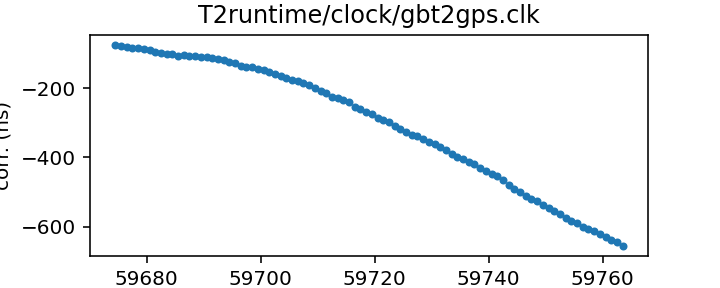
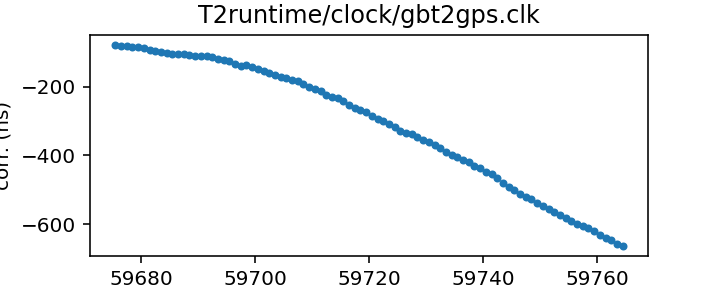
Routine gh-pages update from Github action Tue Jul  5 20:35:05 UTC 2022

diff --git a/status.md b/status.md
@@ -13,17 +13,17 @@ name of each clock file links to a page with more details.
 
 | Name | File | Corrections start | Corrections end | Last check date | Last check result 
 |:--- |:--- | --- | --- | --- |:--- 
-| [GPS to UTC](T2runtime/clock/gps2utc.clk.html) | `T2runtime/clock/gps2utc.clk` | 1993-01-01 MJD 48988.0 | 2022-05-30 MJD 59729.0 | 2022-07-04 | Unchanged 
-| [GPS to UTC (Combined Clock)](T2runtime/clock/gps2utc_cc.clk.html) | `T2runtime/clock/gps2utc_cc.clk` | 1993-01-01 MJD 48988.0 | 2022-05-30 MJD 59729.0 | 2022-07-04 | Unchanged 
-| [GPS to UTC (Corrected)](T2runtime/clock/gps2utc_c0p.clk.html) | `T2runtime/clock/gps2utc_c0p.clk` | 2010-12-29 MJD 55559.0 | 2022-05-30 MJD 59729.0 | 2022-07-04 | Unchanged 
-| [GBT](tempo/clock/time_gbt.dat.html) | `tempo/clock/time_gbt.dat` | 2000-12-31 MJD 51909.5 | 2022-07-03 MJD 59763.5 | 2022-07-04 | **Updated overriding validation failure** 
-| [GBT (TEMPO2 converted from TEMPO)](T2runtime/clock/gbt2gps.clk.html) | `T2runtime/clock/gbt2gps.clk` | 2000-12-31 MJD 51909.5 | 2022-07-03 MJD 59763.5 | 2022-07-04 | **Updated overriding validation failure** 
+| [GPS to UTC](T2runtime/clock/gps2utc.clk.html) | `T2runtime/clock/gps2utc.clk` | 1993-01-01 MJD 48988.0 | 2022-05-30 MJD 59729.0 | 2022-07-05 | Unchanged 
+| [GPS to UTC (Combined Clock)](T2runtime/clock/gps2utc_cc.clk.html) | `T2runtime/clock/gps2utc_cc.clk` | 1993-01-01 MJD 48988.0 | 2022-05-30 MJD 59729.0 | 2022-07-05 | Unchanged 
+| [GPS to UTC (Corrected)](T2runtime/clock/gps2utc_c0p.clk.html) | `T2runtime/clock/gps2utc_c0p.clk` | 2010-12-29 MJD 55559.0 | 2022-05-30 MJD 59729.0 | 2022-07-05 | Unchanged 
+| [GBT](tempo/clock/time_gbt.dat.html) | `tempo/clock/time_gbt.dat` | 2000-12-31 MJD 51909.5 | 2022-07-04 MJD 59764.5 | 2022-07-05 | Updated 
+| [GBT (TEMPO2 converted from TEMPO)](T2runtime/clock/gbt2gps.clk.html) | `T2runtime/clock/gbt2gps.clk` | 2000-12-31 MJD 51909.5 | 2022-07-04 MJD 59764.5 | 2022-07-05 | Updated 
 | [Jodrell Bank](T2runtime/clock/jb2gps.clk.html) | `T2runtime/clock/jb2gps.clk` | 2006-10-13 MJD 54021.4 | 2021-11-03 MJD 59521.0 | 2022-06-29 | Unchanged 
 | [Jodrell Bank Roach](T2runtime/clock/jbroach2jb.clk.html) | `T2runtime/clock/jbroach2jb.clk` | 2006-10-13 MJD 54021.4 | 2018-03-20 MJD 58197.6 | 2022-06-29 | Unchanged 
 | [Jodrell Bank DFB](T2runtime/clock/jbdfb2jb.clk.html) | `T2runtime/clock/jbdfb2jb.clk` | 2006-10-13 MJD 54021.4 | 2017-05-11 MJD 57884.0 | 2022-06-29 | Unchanged 
 | [Meerkat (observatory)](T2runtime/clock/mk2utc_observatory.clk.html) | `T2runtime/clock/mk2utc_observatory.clk` | 2019-01-01 MJD 58484.0 | 2022-06-16 MJD 59747.0 | 2022-07-04 | Unchanged 
-| [Leap seconds](tempo/clock/leap.sec.html) | `tempo/clock/leap.sec` | 1972-07-01 MJD 41499.0 | 2017-01-01 MJD 57754.0 | 2022-07-04 | Unchanged 
-| [UT1 table](tempo/clock/ut1.dat.html) | `tempo/clock/ut1.dat` | 1973-01-02 MJD 41684.0 | 2023-07-08 MJD 60133.0 | 2022-07-04 | Updated 
+| [Leap seconds](tempo/clock/leap.sec.html) | `tempo/clock/leap.sec` | 1972-07-01 MJD 41499.0 | 2017-01-01 MJD 57754.0 | 2022-07-05 | Unchanged 
+| [UT1 table](tempo/clock/ut1.dat.html) | `tempo/clock/ut1.dat` | 1973-01-02 MJD 41684.0 | 2023-07-08 MJD 60133.0 | 2022-07-05 | Unchanged 
 
 
 

diff --git a/T2runtime/clock/gbt2gps.clk.md b/T2runtime/clock/gbt2gps.clk.md
@@ -23,14 +23,13 @@ If questions arise about the conversion, contact Anne Archibald
 | Format | tempo2 |
 | Bogus last correction | False |
 | Clock file start | 2000-12-31 MJD 51909.5 |
-| Clock file end | 2022-07-03 MJD 59763.5 |
+| Clock file end | 2022-07-04 MJD 59764.5 |
 | Update interval (days) | 1 |
-| Last update attempt | 2022-07-04 |
-| Last update result | Updated overriding validation failure |
+| Last update attempt | 2022-07-05 |
+| Last update result | Updated |
 
 Log entries from the last few update attempts:
 ```
-2022-07-01 20:35:04.611 - Updated
 2022-07-04 14:51:04.770 - Validation failed: New version of T2runtime/clock/gbt2gps.clk clock corrections differ from old version where they overlap in 1 places
 2022-07-04 14:52:36.474 - Validation failed: New version of T2runtime/clock/gbt2gps.clk clock corrections differ from old version where they overlap in 1 places
 2022-07-04 14:55:55.238 - Validation failed: New version of T2runtime/clock/gbt2gps.clk clock corrections differ from old version where they overlap in 1 places
@@ -40,12 +39,13 @@ Log entries from the last few update attempts:
 2022-07-04 14:57:57.807 - Validation failed: New version of T2runtime/clock/gbt2gps.clk clock corrections differ from old version where they overlap in 1 places
 2022-07-04 14:58:15.056 - Validation failed: New version of T2runtime/clock/gbt2gps.clk clock corrections differ from old version where they overlap in 1 places
 2022-07-04 14:58:15.056 - Updated overriding validation failure
+2022-07-05 20:34:42.133 - Updated
 ```
 [Full log](https://raw.githubusercontent.com/ipta/pulsar-clock-corrections/main/log/T2runtime/clock/gbt2gps.clk.log)
 
 Leading comments from clock file:
 
-    # This file was automatically converted from tempo/clock/time_gbt.dat on 2022-07-04 14:58:15.019
+    # This file was automatically converted from tempo/clock/time_gbt.dat on 2022-07-05 20:34:42.063
 
 
 

diff --git a/tempo/clock/time_gbt.dat.md b/tempo/clock/time_gbt.dat.md
@@ -18,14 +18,13 @@ If questions arise, contact Ryan S. Lynch <rlynch@nrao.edu>.
 | Format | tempo |
 | Bogus last correction | False |
 | Clock file start | 2000-12-31 MJD 51909.5 |
-| Clock file end | 2022-07-03 MJD 59763.5 |
+| Clock file end | 2022-07-04 MJD 59764.5 |
 | Update interval (days) | 1 |
-| Last update attempt | 2022-07-04 |
-| Last update result | Updated overriding validation failure |
+| Last update attempt | 2022-07-05 |
+| Last update result | Updated |
 
 Log entries from the last few update attempts:
 ```
-2022-06-23 20:34:02.053 - Updated
 2022-06-27 10:52:29.022 - Updated
 2022-06-28 20:35:07.521 - Updated
 2022-06-29 20:36:06.141 - Updated
@@ -35,6 +34,7 @@ Log entries from the last few update attempts:
 2022-07-03 20:31:45.869 - Validation failed: New version of tempo/clock/time_gbt.dat clock corrections differ from old version where they overlap in 1 places
 2022-07-04 14:49:32.673 - Validation failed: New version of tempo/clock/time_gbt.dat clock corrections differ from old version where they overlap in 1 places
 2022-07-04 14:49:32.674 - Updated overriding validation failure
+2022-07-05 20:34:42.061 - Updated
 ```
 [Full log](https://raw.githubusercontent.com/ipta/pulsar-clock-corrections/main/log/tempo/clock/time_gbt.dat.log)
 

diff --git a/T2runtime/clock/gps2utc_c0p.clk.md b/T2runtime/clock/gps2utc_c0p.clk.md
@@ -30,12 +30,11 @@ about the BIPM's published corrections, contact <tai@bipm.org>.
 | Clock file start | 2010-12-29 MJD 55559.0 |
 | Clock file end | 2022-05-30 MJD 59729.0 |
 | Update interval (days) | 1 |
-| Last update attempt | 2022-07-04 |
+| Last update attempt | 2022-07-05 |
 | Last update result | Unchanged |
 
 Log entries from the last few update attempts:
 ```
-2022-06-22 20:32:52.244 - Unchanged
 2022-06-23 20:34:01.411 - Unchanged
 2022-06-27 10:52:27.640 - Unchanged
 2022-06-28 20:35:07.154 - Unchanged
@@ -45,6 +44,7 @@ Log entries from the last few update attempts:
 2022-07-02 20:32:16.854 - Unchanged
 2022-07-03 20:31:45.453 - Unchanged
 2022-07-04 20:32:40.873 - Unchanged
+2022-07-05 20:34:41.573 - Unchanged
 ```
 [Full log](https://raw.githubusercontent.com/ipta/pulsar-clock-corrections/main/log/T2runtime/clock/gps2utc_c0p.clk.log)
 

diff --git a/T2runtime/clock/gps2utc_cc.clk.md b/T2runtime/clock/gps2utc_cc.clk.md
@@ -29,12 +29,11 @@ about the BIPM's published corrections, contact <tai@bipm.org>.
 | Clock file start | 1993-01-01 MJD 48988.0 |
 | Clock file end | 2022-05-30 MJD 59729.0 |
 | Update interval (days) | 1 |
-| Last update attempt | 2022-07-04 |
+| Last update attempt | 2022-07-05 |
 | Last update result | Unchanged |
 
 Log entries from the last few update attempts:
 ```
-2022-06-22 20:32:52.225 - Unchanged
 2022-06-23 20:34:01.397 - Unchanged
 2022-06-27 10:52:27.624 - Unchanged
 2022-06-28 20:35:07.143 - Unchanged
@@ -44,6 +43,7 @@ Log entries from the last few update attempts:
 2022-07-02 20:32:16.844 - Unchanged
 2022-07-03 20:31:45.442 - Unchanged
 2022-07-04 20:32:40.862 - Unchanged
+2022-07-05 20:34:41.563 - Unchanged
 ```
 [Full log](https://raw.githubusercontent.com/ipta/pulsar-clock-corrections/main/log/T2runtime/clock/gps2utc_cc.clk.log)
 

diff --git a/T2runtime/clock/gps2utc.clk.md b/T2runtime/clock/gps2utc.clk.md
@@ -32,12 +32,11 @@ about the BIPM's published corrections, contact <tai@bipm.org>.
 | Clock file start | 1993-01-01 MJD 48988.0 |
 | Clock file end | 2022-05-30 MJD 59729.0 |
 | Update interval (days) | 1 |
-| Last update attempt | 2022-07-04 |
+| Last update attempt | 2022-07-05 |
 | Last update result | Unchanged |
 
 Log entries from the last few update attempts:
 ```
-2022-06-22 20:32:52.183 - Unchanged
 2022-06-23 20:34:01.356 - Unchanged
 2022-06-27 10:52:27.595 - Unchanged
 2022-06-28 20:35:07.111 - Unchanged
@@ -47,6 +46,7 @@ Log entries from the last few update attempts:
 2022-07-02 20:32:16.812 - Unchanged
 2022-07-03 20:31:45.409 - Unchanged
 2022-07-04 20:32:40.830 - Unchanged
+2022-07-05 20:34:41.530 - Unchanged
 ```
 [Full log](https://raw.githubusercontent.com/ipta/pulsar-clock-corrections/main/log/T2runtime/clock/gps2utc.clk.log)
 

diff --git a/tempo/clock/ut1.dat.md b/tempo/clock/ut1.dat.md
@@ -30,12 +30,11 @@ If there are any questions, contact Anne Archibald
 | File start | 1973-01-02 MJD 41684.0 |
 | File end | 2023-07-08 MJD 60133.0 |
 | Update interval (days) | 0 |
-| Last update attempt | 2022-07-04 |
-| Last update result | Updated |
+| Last update attempt | 2022-07-05 |
+| Last update result | Unchanged |
 
 Log entries from the last few update attempts:
 ```
-2022-07-01 20:35:11.842 - Unchanged
 2022-07-02 20:32:24.568 - Unchanged
 2022-07-03 20:31:53.377 - Unchanged
 2022-07-04 14:38:15.392 - Updated
@@ -45,5 +44,6 @@ Log entries from the last few update attempts:
 2022-07-04 14:56:58.554 - Unchanged
 2022-07-04 14:58:30.386 - Unchanged
 2022-07-04 20:32:52.596 - Updated
+2022-07-05 20:34:50.275 - Unchanged
 ```
 [Full log](https://raw.githubusercontent.com/ipta/pulsar-clock-corrections/main/log/tempo/clock/ut1.dat.log)

diff --git a/tempo/clock/leap.sec.md b/tempo/clock/leap.sec.md
@@ -21,12 +21,11 @@ If there are any questions, contact Anne Archibald
 | File start | 1972-07-01 MJD 41499.0 |
 | File end | 2017-01-01 MJD 57754.0 |
 | Update interval (days) | 0 |
-| Last update attempt | 2022-07-04 |
+| Last update attempt | 2022-07-05 |
 | Last update result | Unchanged |
 
 Log entries from the last few update attempts:
 ```
-2022-07-01 20:35:04.645 - Unchanged
 2022-07-02 20:32:17.170 - Unchanged
 2022-07-03 20:31:45.901 - Unchanged
 2022-07-04 14:38:14.688 - Unchanged
@@ -36,5 +35,6 @@ Log entries from the last few update attempts:
 2022-07-04 14:56:57.989 - Unchanged
 2022-07-04 14:58:29.785 - Unchanged
 2022-07-04 20:32:40.904 - Unchanged
+2022-07-05 20:34:42.163 - Unchanged
 ```
 [Full log](https://raw.githubusercontent.com/ipta/pulsar-clock-corrections/main/log/tempo/clock/leap.sec.log)
